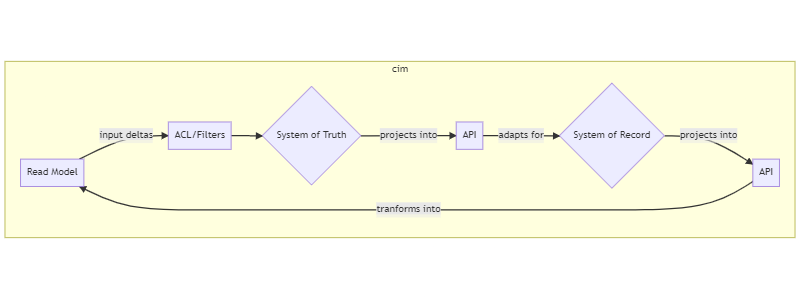
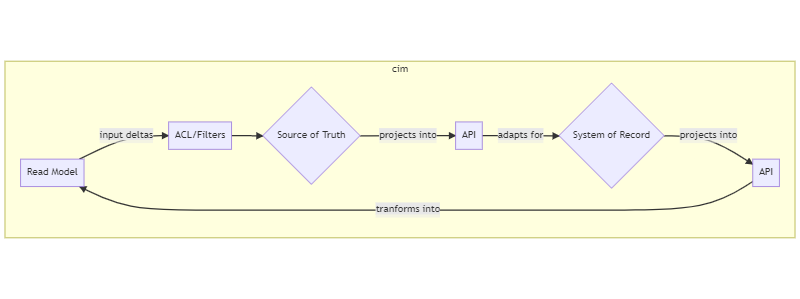
updates

diff --git a/composable.md b/composable.md
@@ -11,9 +11,11 @@ We want a [Composable Information Machine](/doc/cim).
 
 ![diagram of a cim](/img/cim.svg)
 
+Expect several [Sources of Truth](/doc/sot) connected to several [Systems of Record](/doc/sor) with a secure [peer-to-peer](https://www.merriam-webster.com/dictionary/peer-to-peer) network where we control the peers and the channels.
+
 ## Incorporate information decisions into our daily lives
 
-Currently we spend far to much time processing information that *could be fully automated*. We can process information that exists all over the internet and obtain sensor input from all over the universe. Instead of re-centralizing or relocating all that information we can now adapt a new process to utilize it and optimize where it sits. Once we put everything in the cloud, retrieving it all at once becomes an impossible feat, even moving it around can become exceedingly difficult.
+Currently we spend far to much time processing information that *`could be fully automated`*. We can process information that exists all over the internet and obtain sensor input from all over the universe. Instead of re-centralizing or relocating all that information we can now adapt a new process to utilize it and optimize where it sits. Once we put everything in the cloud, retrieving it all at once becomes an impossible feat, even moving it around can become exceedingly difficult.
 
 In less than a few centuries, our information devices have exploded from 1, our brain, to a few in books and physical objects, to thousands or even millions of digital and analog sources over our lifetimes. We need to participate in a world that is demanding more and more from us in order just to participate. We need more knowledge, faster, at more times, to interact with our already stored and processed information, that just keeps growing.
 
@@ -25,7 +27,7 @@ We will be using a style of structuring based on [Merkle DAGs](https://proto.sch
 
 ![hash tree](/img/hashTree.svg)
 
-Several current theories take us from the single machine to the connected network, on to a truly distributed machine.  Most of us aren't interested in becoming theoretical mathematicians or computer scientists, let alone linquists and statisticians just to understand our budget. We need an easier way to connect everything, without being subject to vendorization or great cost. Those interested may dive deeply into the theories that make up a [Composable Information Machine](/doc/cim) we offer a wealth of connected understanding for the theories presented in [Docs](docs).
+Several current theories take us from the single machine to the connected network, on to a truly distributed machine.  Most of us aren't interested in becoming theoretical mathematicians or computer scientists, let alone linquists and statisticians just to understand our budget. We need an easier way to connect everything, without being subject to vendorization or great cost. Those interested may dive deeply into the theories that make up a [Composable Information Machine](/doc/cim) we offer a wealth of connected understanding for the theories presented in [Docs](/doc).
 
 > ## I want to own, understand, process and protect my information
 
@@ -34,8 +36,8 @@ Personal computers were supposed to be a tool for personal liberation, we achiev
 It is now critical that we become able to understand our information and how it interacts with us and our environment.  We have achieved something extraordinary in the last 50 years of Information Technology. It became tiny and affordable to everyone. I can buy a $5 postage stamp sized computer that can do quite a bit of processing and it is widely available. The `network` is now ubiquitous with [StarLink](https://starlink.com).
 
 With some initial planning as to how we present and work with information we can come to an achievable whole greater than the sum of it's parts. 
-* It needs to be made from readily accessible and available components which can all be identified, encapsulated and connected. 
-* It needs to be able to grow and learn and use new technology and help us understand how to achieve it.
+   * It needs to be made from readily accessible and available components which can all be identified, encapsulated and connected. 
+   * It needs to be able to grow and learn and use new technology and help us understand how to achieve it.
 
 This means both hardware and software are completely identified, defined and related in a way we can predictably understand. We will know exactly how the machine works and how it communicates. The machine is a single entity as a whole, made from many parts, connected in an environment, residing in the known universe.
 
@@ -49,16 +51,22 @@ We need to cover structure, construction, types, power, networking, people, hard
 
 We define an inventory system which, in turn, defines the informational limits and boundaries. We will combine many well-known services, yet see them as related and usable in very specific ways.
 
-We can choose from many [infrastructure resource modeling](/doc/irm) systems. We need a base that will be the [source of truth](https://en.wikipedia.org/wiki/Single_source_of_truth) for our network. [NetBox](https://docs.netbox.dev/en/stable/) fulfills this for us nicely. Next, where do I put it? Anywhere actually, this is a containerized system, in this guide we will use a Raspberry Pi 4B for the initial system. Expect whole systems to be replaced over time. This can easily be the biggest, fastest server you want to put it on, we just don't require it.
+We can choose from many [infrastructure resource modeling](/doc/irm) systems, the exact system is not important. We simply need a base that will act as the [source of truth](https://en.wikipedia.org/wiki/Single_source_of_truth) for our network. [NetBox](https://docs.netbox.dev/en/stable/) fulfills this for us nicely, if you need or want something else, you can use it. We fully expect [NetBox](https://docs.netbox.dev/en/stable/) to be replaced at some point so we start off expecting to plan for it.  
+
+Next, where do I put it? Anywhere actually, this is a containerized system, in this guide we will start with a Raspberry Pi 4B for the initial system. We want to start simple and grow the machine organically as we need it. 
+
+> It starts with a clone of the `cim repository` running the .devcontainer somewhere. You may do this on a laptop, on github, or anywhere else these docker containers are capable of running.
+
+We will add clusters, cloud-services, racks of machines and many more containerized systems as we go. Expect whole systems to be replaced over time. This can easily be the biggest, fastest set of servers you want to put it on, we just don't require it. Start simple and scale.
 
 NetBox is designed to be a centralized single source of truth while a [Composable Information Machine](/doc/cim) is distributed and partitioned. To accommodate this we will be making two significant adjustments to how we use NetBox. We extend NetBox to have a Write model as well as to use [Event Sourcing](/doc/event-sourcing).
 
 Abstracted interface to the network infrastructure model: 
 
->* Read Model from NetBox
->* Write Model (abstracted from same then optimized)
->* Event Sourcing
->* Projections to create interaction and read model population
+   * Read Model from NetBox
+   * Write Model (abstracted from same then optimized)
+   * Event Sourcing
+   * Projections to create interaction and read model population
 
 We will use the current NetBox data model as a READ Model for [IRM](/doc/irm). The Write Model is an abstraction we will create. We could [abstract an API in Rust](https://openapi-generator.tech/docs/generators/rust/) for our use with the Read Model, but there is one already built we can start from: [https://github.com/AmaranthosLabs/rust-netbox]. 
 

diff --git a/doc/index.md b/doc/index.md
@@ -7,4 +7,3 @@ indexing: true
 sitemap: true
 ---
 
-{% include post-list.html %}
